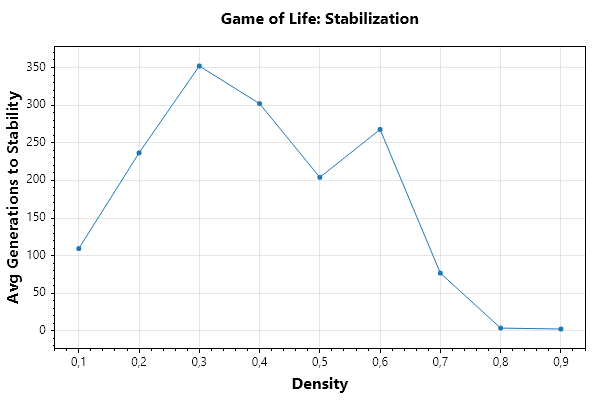
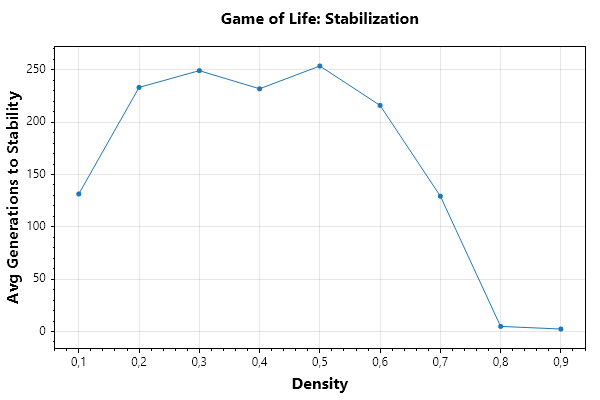
b8 Копейкин Иван

diff --git a/Life/Program.cs b/Life/Program.cs
@@ -152,10 +152,7 @@ namespace cli_life
 
             var directions = new (int dx, int dy)[]
             {
-                (-1, 0),
-                (1, 0),
-                (0, -1),
-                (0, 1)
+                (-1, 0), (1, 0), (0, -1), (0, 1)
             };
 
             for (int x = 0; x < Columns; x++)
@@ -166,7 +163,6 @@ namespace cli_life
                     {
                         var component = new List<(int, int)>();
                         var queue = new Queue<(int, int)>();
-
                         queue.Enqueue((x, y));
                         visited[x, y] = true;
 
@@ -174,12 +170,10 @@ namespace cli_life
                         {
                             var (cx, cy) = queue.Dequeue();
                             component.Add((cx, cy));
-
                             foreach (var (dx, dy) in directions)
                             {
                                 int nx = (cx + dx + Columns) % Columns;
                                 int ny = (cy + dy + Rows) % Rows;
-
                                 if (Cells[nx, ny].IsAlive && !visited[nx, ny])
                                 {
                                     visited[nx, ny] = true;
@@ -187,12 +181,10 @@ namespace cli_life
                                 }
                             }
                         }
-
                         components.Add(component);
                     }
                 }
             }
-
             return components;
         }
     }
@@ -256,27 +248,26 @@ namespace cli_life
 
     public static class StabilityAnalyzer
     {
-        private static string Serialize(Board board)
-        {
-            var sb = new StringBuilder();
-            for (int y = 0; y < board.Rows; y++)
-                for (int x = 0; x < board.Columns; x++)
-                    sb.Append(board.Cells[x, y].IsAlive ? '1' : '0');
-            return sb.ToString();
-        }
-
         public static int GenerationsToStability(Board board, int maxGen = 500, int stableWindow = 10)
         {
+            int prevCount = board.CountAlive();
+            int stableFor = 0;
             for (int gen = 1; gen <= maxGen; gen++)
             {
-                var before = Serialize(board);
                 board.Advance();
-                var after = Serialize(board);
-
-                if (before == after)
-                    return gen;
+                int count = board.CountAlive();
+                if (count == prevCount)
+                {
+                    stableFor++;
+                    if (stableFor >= stableWindow)
+                        return gen - stableWindow + 1;
+                }
+                else
+                {
+                    stableFor = 0;
+                    prevCount = count;
+                }
             }
-
             return -1;
         }
 
@@ -285,26 +276,17 @@ namespace cli_life
             double[] densities, int runs = 20, int maxGen = 500, int stableWindow = 10)
         {
             var result = new Dictionary<double, double>();
-
             foreach (double density in densities)
             {
                 int total = 0, counted = 0;
-
                 for (int i = 0; i < runs; i++)
                 {
                     var b = new Board(width, height, cellSize, density);
                     int gen = GenerationsToStability(b, maxGen, stableWindow);
-
-                    if (gen >= 0)
-                    {
-                        total += gen;
-                        counted++;
-                    }
+                    if (gen >= 0) { total += gen; counted++; }
                 }
-
                 result[density] = counted > 0 ? (double)total / counted : maxGen;
             }
-
             return result;
         }
     }

diff --git a/Life.Tests/UnitTest1.cs b/Life.Tests/UnitTest1.cs
@@ -82,7 +82,6 @@ namespace Life.Tests
         public void Board_Advance_IncrementsNothingDirectly()
         {
             var board = new Board(10, 10, 1);
-            int before = board.CountAlive();
             board.Advance();
             Assert.True(true);
         }
@@ -126,13 +125,13 @@ namespace Life.Tests
         }
 
         [Fact]
-        public void Board_GetComponents_ToroidalConnectivity()
+        public void Board_GetComponents_4Connectivity_IsolatedDiagonalNotConnected()
         {
             var board = new Board(5, 5, 1, 0.0);
             board.Cells[0, 0].IsAlive = true;
-            board.Cells[4, 4].IsAlive = true;
+            board.Cells[1, 1].IsAlive = true;
             var components = board.GetComponents();
-            Assert.Single(components);
+            Assert.Equal(2, components.Count);
         }
     }
 
@@ -176,11 +175,11 @@ namespace Life.Tests
         [Fact]
         public void StabilityAnalyzer_GenerationsToStability_BlockIsStable()
         {
-            var board = new Board(4, 4, 1);
+            var board = new Board(4, 4, 1, 0.0);
             board.Cells[0, 0].IsAlive = board.Cells[1, 0].IsAlive =
             board.Cells[0, 1].IsAlive = board.Cells[1, 1].IsAlive = true;
             int generations = StabilityAnalyzer.GenerationsToStability(board, maxGen: 20, stableWindow: 2);
-            Assert.Equal(1, generations);
+            Assert.True(generations >= 1 && generations <= 2);
         }
 
         [Fact]
@@ -189,7 +188,7 @@ namespace Life.Tests
             var board = new Board(3, 3, 1);
             board.Cells[0, 1].IsAlive = board.Cells[1, 1].IsAlive = board.Cells[2, 1].IsAlive = true;
             int generations = StabilityAnalyzer.GenerationsToStability(board, maxGen: 10, stableWindow: 5);
-            Assert.InRange(generations, -1, 10);
+            Assert.Equal(-1, generations);
         }
 
         [Fact]
